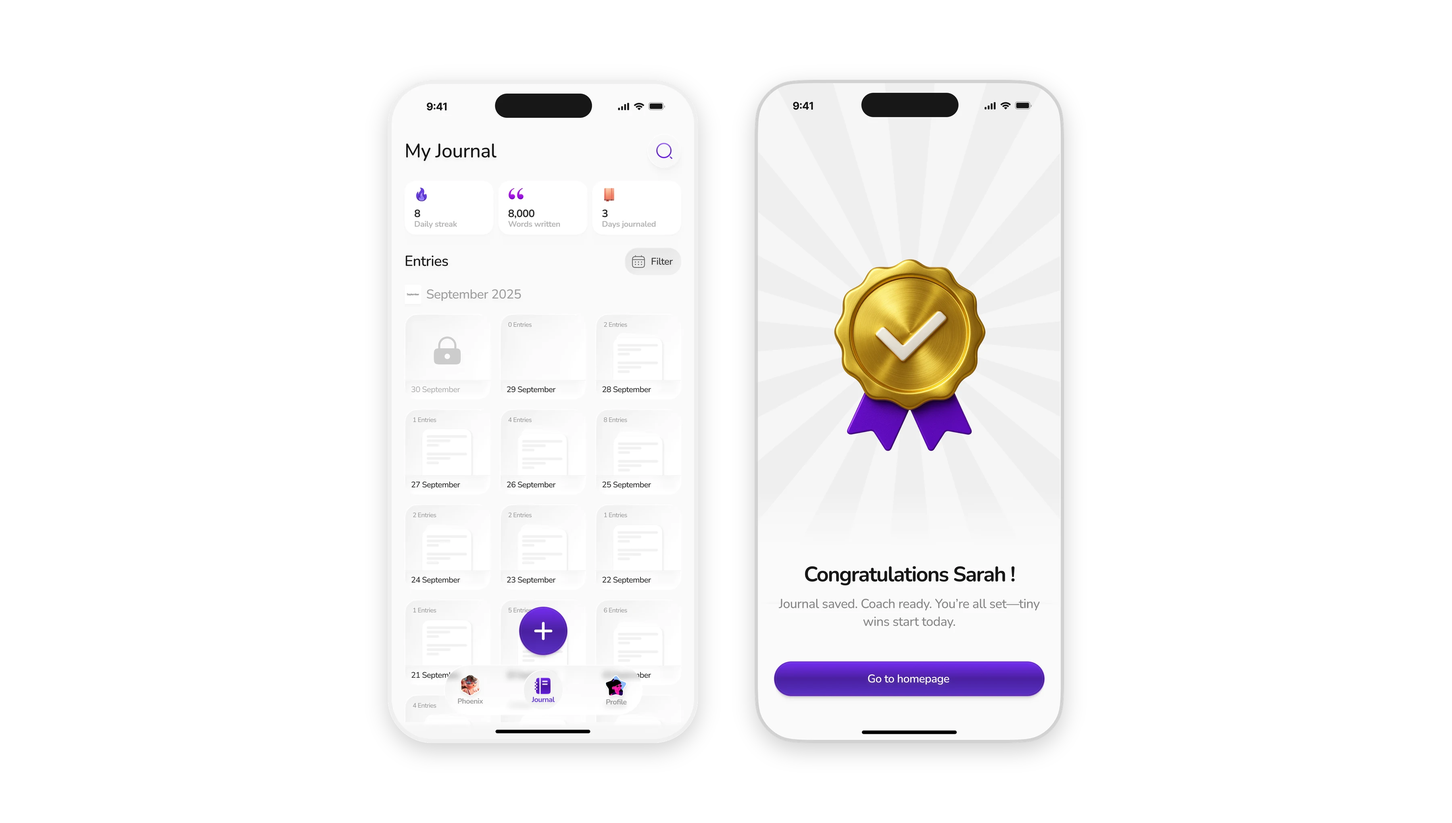
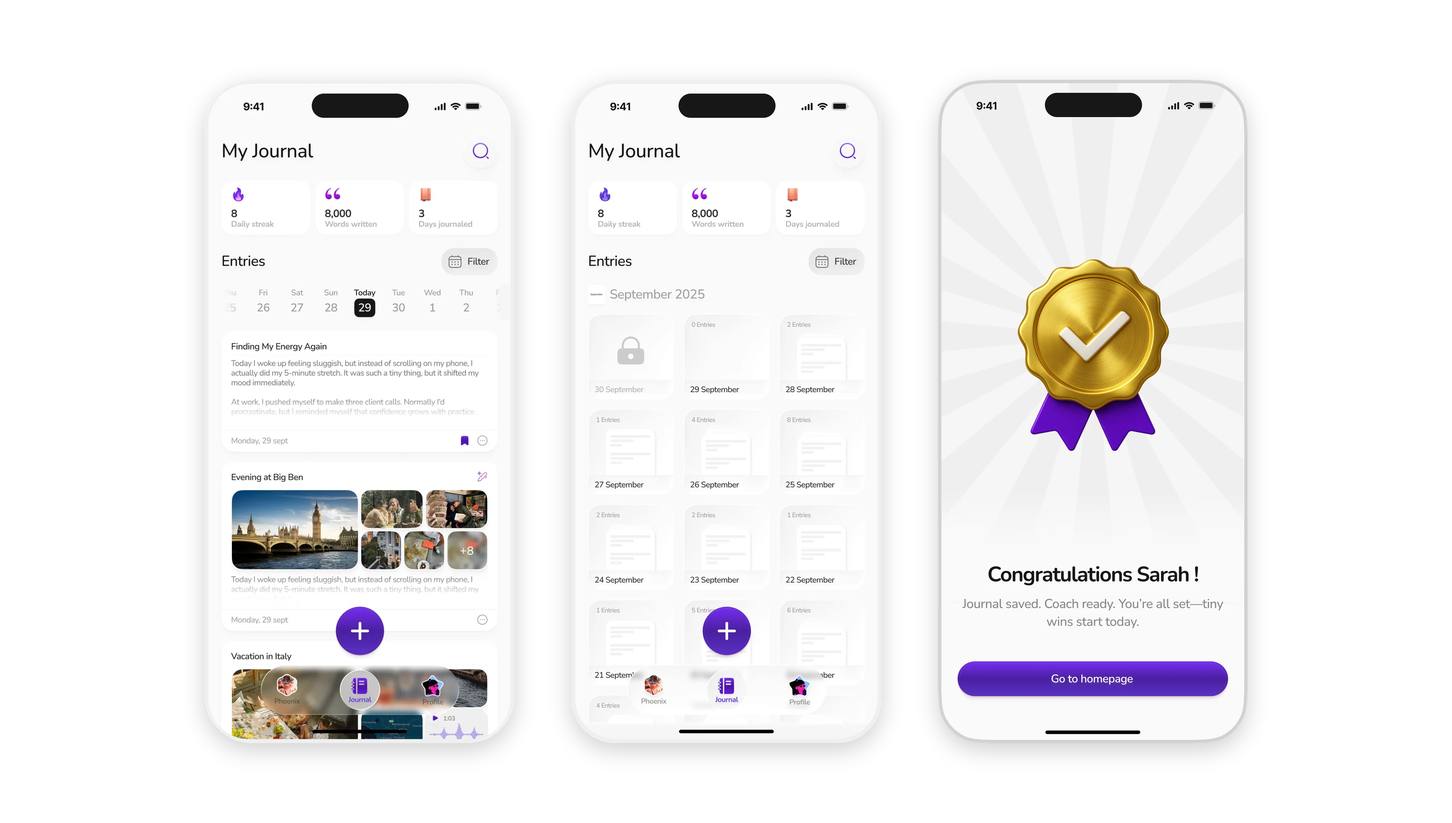
BFF Journal: add main journal page, guided entry, editor photo picker and journal lock screens
Claude-Session: https://claude.ai/code/session_01A2m4LmWmyoZ2m4uxG8GMBA

diff --git a/portfolio/index.html b/portfolio/index.html
@@ -1251,7 +1251,7 @@ const ICON_COPY = `<svg viewBox="0 0 24 24" fill="none" stroke="currentColor" st
 const EMAIL = "dhunibash@gmail.com";
 const BIO = "I’m Hafsoh, a product designer who designs in Figma and ships in code.";
 const LINKS={ site:"https://dhuni-designs.vercel.app" /* switch to https://dhunidesigns.com once the domain is connected */, github:"https://github.com/DhuniDesigns", linkedin:"https://www.linkedin.com/in/hafsoh-bashar/", x:"https://x.com/basharhafsoh", behance:"https://www.behance.net/dhunidesigns" };
-const IMG={ csMmAsk:"img/cs-mm-ask.webp", csMmSpaces:"img/cs-mm-spaces.webp", csMmFiles:"img/cs-mm-files.webp", csBffOnboard:"img/cs-bff-onboard.webp", csBffWrite:"img/cs-bff-write.webp", csBffMonth:"img/cs-bff-month.webp", csBffPhoenix:"img/cs-bff-phoenix.webp", csBffPlans:"img/cs-bff-plans.webp", csLvlOnboard:"img/cs-lvl-onboard.webp", csLvlLearn:"img/cs-lvl-learn.webp", csLvlTutor:"img/cs-lvl-tutor.webp", csLvlCommunity:"img/cs-lvl-community.webp", csLvlPlans:"img/cs-lvl-plans.webp", cs4amQuests:"img/cs-4am-quests.webp", cs4amLeagues:"img/cs-4am-leagues.webp", cs4amInvite:"img/cs-4am-invite.webp", cs4amPlan:"img/cs-4am-plan.webp", cs4amCoach:"img/cs-4am-coach.webp", cs4amWeb:"img/cs-4am-web.webp", csBffJournal:"img/cs-bff-journal.webp", csBffAi:"img/cs-bff-ai.webp", csLvl:"img/cs-lvl-screens.webp", csMm:"img/cs-mm-detail.webp", mmCover:"img/matchmind-cover.webp", pixieKit:"img/pixie-kit.webp", pixieContrast:"img/pixie-contrast.webp", pixieSend:"img/pixie-send.webp", pixieLock:"img/pixie-lock.webp?v=2", sello:"img/sello.webp", pixie:"img/pixie.webp?v=2", koffi:"img/koffi-website.webp", shut2:"img/shuttlers-v2.webp", rea:"img/rea-redesign.webp", nyta:"img/nyta-agency.webp", beach:"img/beach.webp", food:"img/food.webp", ssTravel:"img/travel-app.webp", ssRideL:"img/ride-light.webp", ssRideD:"img/ride-dark.webp", ssFootball:"img/football-ai.webp", ssFoot1:"img/football-ai-1.webp", ssFoot2:"img/football-ai-2.webp", ssNews:"img/blog-app.webp", ssTasks:"img/tasks-dash.webp", ssAotD:"img/aot-dashboard.webp", ssAotP:"img/aot-phones.webp", ssWallet:"img/wallet-modes.webp", ssHelp:"img/help-menu.webp", ssDelete:"img/delete-modal.webp", outabout:"img/out-and-about.webp", meSelfie:"img/me-selfie.webp", meAvatar:"img/me-avatar.webp", meOrange:"img/me-orange.webp", meKiss:"img/me-kiss.webp", meLaugh:"img/me-laugh.webp", meSmile:"img/me-smile.webp", meOutfit:"img/me-outfit.webp", artGirl:"img/art-girl.webp", artPainting:"img/art-painting.webp", hawkins:"img/film-hawkins.webp", flatlay:"img/flatlay.webp", camera:"img/camera.webp", necklace:"img/jw-necklace.webp", cuff:"img/jw-cuff.webp", tiara:"img/jw-tiara.webp", hero4am:"img/4am-hero.webp", heroPhoenix:"img/phoenix-hero.webp", heroLvl:"img/lvlup-hero.webp", trim:"img/trim-hero.webp", trimCover:"img/trim-cover.webp", trimV01:"img/trim-v01.webp", trimPill:"img/trim-pill.webp", trimToast:"img/trim-toast.webp", trimInstalled:"img/trim-installed.webp", trimFlowDia:"img/trim-flow-diagram.webp", trimPopup:"img/trim-popup.webp", selloOnboard:"img/sello-onboarding.webp?v=4", selloFix:"img/sello-fix-steps.webp?v=4", selloHome:"img/sello-home.webp?v=4", selloShop:"img/sello-shop.webp?v=4" };
+const IMG={ csBffGuided:"img/cs-bff-guided.webp", csBffEditor:"img/cs-bff-editor.webp", csBffLock:"img/cs-bff-lock.webp", csMmAsk:"img/cs-mm-ask.webp", csMmSpaces:"img/cs-mm-spaces.webp", csMmFiles:"img/cs-mm-files.webp", csBffOnboard:"img/cs-bff-onboard.webp", csBffWrite:"img/cs-bff-write.webp?v=2", csBffMonth:"img/cs-bff-month.webp?v=2", csBffPhoenix:"img/cs-bff-phoenix.webp", csBffPlans:"img/cs-bff-plans.webp", csLvlOnboard:"img/cs-lvl-onboard.webp", csLvlLearn:"img/cs-lvl-learn.webp", csLvlTutor:"img/cs-lvl-tutor.webp", csLvlCommunity:"img/cs-lvl-community.webp", csLvlPlans:"img/cs-lvl-plans.webp", cs4amQuests:"img/cs-4am-quests.webp", cs4amLeagues:"img/cs-4am-leagues.webp", cs4amInvite:"img/cs-4am-invite.webp", cs4amPlan:"img/cs-4am-plan.webp", cs4amCoach:"img/cs-4am-coach.webp", cs4amWeb:"img/cs-4am-web.webp", csBffJournal:"img/cs-bff-journal.webp", csBffAi:"img/cs-bff-ai.webp", csLvl:"img/cs-lvl-screens.webp", csMm:"img/cs-mm-detail.webp", mmCover:"img/matchmind-cover.webp", pixieKit:"img/pixie-kit.webp", pixieContrast:"img/pixie-contrast.webp", pixieSend:"img/pixie-send.webp", pixieLock:"img/pixie-lock.webp?v=2", sello:"img/sello.webp", pixie:"img/pixie.webp?v=2", koffi:"img/koffi-website.webp", shut2:"img/shuttlers-v2.webp", rea:"img/rea-redesign.webp", nyta:"img/nyta-agency.webp", beach:"img/beach.webp", food:"img/food.webp", ssTravel:"img/travel-app.webp", ssRideL:"img/ride-light.webp", ssRideD:"img/ride-dark.webp", ssFootball:"img/football-ai.webp", ssFoot1:"img/football-ai-1.webp", ssFoot2:"img/football-ai-2.webp", ssNews:"img/blog-app.webp", ssTasks:"img/tasks-dash.webp", ssAotD:"img/aot-dashboard.webp", ssAotP:"img/aot-phones.webp", ssWallet:"img/wallet-modes.webp", ssHelp:"img/help-menu.webp", ssDelete:"img/delete-modal.webp", outabout:"img/out-and-about.webp", meSelfie:"img/me-selfie.webp", meAvatar:"img/me-avatar.webp", meOrange:"img/me-orange.webp", meKiss:"img/me-kiss.webp", meLaugh:"img/me-laugh.webp", meSmile:"img/me-smile.webp", meOutfit:"img/me-outfit.webp", artGirl:"img/art-girl.webp", artPainting:"img/art-painting.webp", hawkins:"img/film-hawkins.webp", flatlay:"img/flatlay.webp", camera:"img/camera.webp", necklace:"img/jw-necklace.webp", cuff:"img/jw-cuff.webp", tiara:"img/jw-tiara.webp", hero4am:"img/4am-hero.webp", heroPhoenix:"img/phoenix-hero.webp", heroLvl:"img/lvlup-hero.webp", trim:"img/trim-hero.webp", trimCover:"img/trim-cover.webp", trimV01:"img/trim-v01.webp", trimPill:"img/trim-pill.webp", trimToast:"img/trim-toast.webp", trimInstalled:"img/trim-installed.webp", trimFlowDia:"img/trim-flow-diagram.webp", trimPopup:"img/trim-popup.webp", selloOnboard:"img/sello-onboarding.webp?v=4", selloFix:"img/sello-fix-steps.webp?v=4", selloHome:"img/sello-home.webp?v=4", selloShop:"img/sello-shop.webp?v=4" };
 
 /* ---- selected works: each has its own detail page ---- */
 const projects = [
@@ -1277,7 +1277,7 @@ const projects = [
              ["Brand","A confident violet with Montserrat and Outfit. Building its palette by hand is what led me to make Pixie."]]},
   {"id": "4am-club", "name": "4AM Club", "meta": "App and Website", "tagline": "A lifestyle and wellness app that helps people build discipline and lasting habits through structured routines, accountability and AI-powered coaching. I was the only designer, and it's published.", "role": "Sole designer: UI/UX, mobile app, web app, website and email templates", "time": "8 weeks", "platform": "Mobile app, web app and website", "tools": "Figma, Framer, Claude", "demo": "https://dhunidesigns.github.io/Engineering-Playground/4am-subscription/", "github": "https://github.com/DhuniDesigns/Engineering-Playground/tree/main/4am-subscription", "shot": "hero4am", "vid": "billing", "heroCap": "The 4AM Club website: the routine builder that kills excuses and builds discipline.", "sections": [["At a glance", ["Role: the only designer, across the mobile app, web app, marketing website and email templates.", "Timeline: 8 weeks, 2025.", "Platforms: iOS and Android app, web app and website.", "Status: published."]], ["The problem", {"p": "4AM Club tackles a struggle almost everyone knows: staying consistent with a daily routine. People start strong and fade within weeks, and the tools meant to help often make it worse.", "list": ["Inconsistency and drop-off: people start strong but lose motivation after a short while.", "Overwhelming habit systems: many wellness apps show too many features at once, which causes overload.", "Lack of personalisation: generic reminders don’t adapt to individual goals, lifestyles or constraints.", "Low accountability: tracking habits alone lacks the social pressure long-term discipline needs.", "Fragmented tools: people juggle separate apps for fitness, budgeting and wellness."]}], ["Who it’s for", "People who want discipline across more than one part of life at once: fitness, nutrition, faith, money and work. That’s why a single day in 4AM Club can hold tasks tagged Spirituality, Fitness, Nutrition, Finances and Content & Branding."], ["The idea in one line", "One app for your whole routine, with a coach that pushes you, a community that holds you to it, and small rewards for showing up every day."], ["How I turned the problems into design rules", {"p": "Each problem became a rule I checked every screen against.", "list": ["Too many features → a focused MVP. The home screen shows today and nothing else.", "Generic reminders → AI coaching that personalises routines, feedback and motivation.", "Tracking alone → community, challenges, progress sharing and group routines.", "Five separate apps → fitness, spirituality, budgeting and wellness in one routine.", "Fading motivation → daily quests, XP, badges and leagues that reward small, repeatable actions."]}], ["Decision 1: open on today, not a dashboard", {"p": "The home screen is today’s routine: each task with its time, its category and a check mark. Finished tasks are crossed out, and a small counter (3 of 8) shows how far along you are. All your other routines fold into a single row at the top.\n\nOn a hard morning you shouldn’t have to decide what to do next, so the app decides the order for you. Onboarding sets the same tone with a short “Reinvention Blueprint” that shows a planned week before you’ve made a single task.", "media": {"img": "cs4amPlan", "cap": "Onboarding, today’s routine, and adding a task: only the title and date are required; everything else is marked optional."}, "sub": [{"h": "Adding a task stays short", "p": "A new task needs a title and a date. Duration, repeat, reminder, links, notes and tags are all there, but each is marked optional, so the quick version takes seconds. Bigger tasks break into subtasks, and the home screen shows how many are done (0 of 4)."}]}], ["Decision 2: a coach with a personality", {"p": "Generic reminders were one reason people quit, so the AI coach isn’t polite. Coach Ashton talks like a trainer: ask what happens if you miss a workout and he tells you to do the 10-minute version, and if you miss that too, reset and come back stronger. You can type or send a voice note.", "media": {"img": "cs4amCoach", "cap": "Coach Ashton’s chat, community groups, and the 4AM shop."}, "sub": [{"h": "Accountability from other people", "p": "Community is where you find public or private groups around what you’re working on, from language learning to building a business. Quitting alone is easy; quitting in front of people is harder."}]}], ["Decision 3: reward the small things, daily", {"p": "Big goals take months to pay off, and that gap is where people drop off. So instead of rewarding only the big wins, 4AM Club rewards the small actions that build them: open the app, create a routine, complete it, update it, post in the community. Each daily quest is worth a few XP.\n\nI designed every quest with three clear states, so people always know where they stand: not done yet (the reward button is faded), ready to claim (bright blue), and claimed (a tick). Bigger moments, like a first purchase, get a full-screen celebration that shows how close you are to the next level.", "media": {"img": "cs4amQuests", "cap": "Daily quests with their three states, the XP celebration with progress to the next level, and the badge collection."}, "sub": [{"h": "Badges for streaks and routines", "p": "Badges are split into two families so they read at a glance: shield-shaped Challenge Badges (Challenge Accepted, Week Strong, Monthly Achiever) and hexagon-shaped Routine & Habit Badges (First Steps, Habit Hero, Early Bird). Each one has its own colour and icon, so a profile full of them tells a story."}, {"h": "Leagues that keep it fair", "p": "A single global leaderboard can feel out of reach when you’re new, so there are two views. The leaderboard shows all-time, monthly and weekly rankings with a podium for the top three and a reminder of your own position. Leagues group people by level (for example Intermediate, levels 11 to 25): the top 10 move up, and a countdown shows when the round ends. You compete with people at your stage, not with someone who’s been here two years.", "media": {"img": "cs4amLeagues", "cap": "The leaderboard with its podium and your own position, and a league with the top-10 promotion rule and countdown."}}]}], ["Growth built into the habit", {"p": "Doing it with friends is the accountability idea taken one step further, so inviting is rewarded in the same XP system. Every member has a referral code and a QR code to share. The invites list shows how each person came in (WhatsApp or SMS) and whether they’ve only signed up or have also completed a routine.", "media": {"img": "cs4amInvite", "cap": "Invites with XP earned and each friend’s status, the QR share sheet, and the profile with a streak on the avatar."}, "sub": [{"h": "A profile that shows the habit", "p": "The profile puts a streak flame on your avatar, your bio and socials up front, and keeps passwords, notifications, health data, orders and subscription in one settings list."}]}], ["Paying for it, built in code", {"p": "I also built the subscription and billing flow as a working prototype. The plan card lifts and expands into a draggable carousel of plans, and the chosen plan lands back in billing with a new transaction.", "media": {"vid": "billing", "cap": "The plan card expands into a swipeable carousel, then settles back as the new plan."}}], ["One brand across app, web and email", {"p": "Besides the mobile app, I designed the web app, the marketing website, a dark mode, an admin dashboard and the email templates, so 4AM Club looks and sounds the same wherever someone meets it.", "media": {"img": "cs4amWeb", "cap": "The website: one line on what it does, two download buttons, and the app right under the headline."}}], ["What shipped", {"p": "4AM Club is published. Over 8 weeks I took it from idea to a complete MVP across mobile, web, website and email, as the only designer.", "list": ["A focused MVP that supports consistent habits without overwhelming people.", "Engagement designed in from day one: personalised routines, social accountability and daily rewards.", "A foundation that can grow into coaching, commerce and deeper AI insights.", "A lifestyle and wellness platform, not just a habit tracker."]}]]},
   {"id": "lvl-up", "name": "LVL UP", "meta": "Mobile app", "tagline": "A swipe-first learning app built for bingeable courses: short vertical lessons, an AI tutor that keeps up with you, and a community learning the same skill. I was the only designer, and it's published.", "role": "Sole designer: UI/UX, mobile app and brand identity", "time": "4 weeks", "platform": "Mobile app", "tools": "Figma, Claude", "github": "https://github.com/DhuniDesigns/lvl-up", "demo": "https://dhunidesigns.github.io/Engineering-Playground/lvlup-onboarding/", "shot": "heroLvl", "vid": "pgLvl", "heroCap": "Choose a focus area, start your first short lesson, save clips to your Library and tap Community for feedback.", "sections": [["At a glance", ["Role: the only designer, including the brand identity.", "Timeline: 4 weeks, 2024.", "Platform: mobile app.", "Status: published."]], ["The problem", {"p": "Online courses ask for hours of attention from people who have minutes. Learners start strong, lose their place halfway through a long video, and never finish.", "list": ["Traditional e-learning platforms feel long, static and hard to finish.", "Learners struggle to stay consistent without immediate feedback or momentum.", "Loading people with too much information at once hurts retention and motivation.", "Personalising learning paths at scale without adding complexity."]}], ["Who it’s for", "Women roughly 24 to 50 who want to learn skills that help them get a job: busy, often learning around work and family, from anywhere in the world."], ["The idea in one line", "Learn the way you already scroll: one short lesson at a time, with a tutor and a community beside you."], ["How I turned the problems into design rules", {"list": ["Long, static courses → short vertical lessons (30 to 120 seconds) that stack like a feed.", "No feedback → an AI tutor that answers inside the lesson and checks understanding in seconds.", "Too much at once → one idea per lesson, and one main action per screen.", "Personalisation without complexity → the tutor picks what comes next, so learners don’t have to plan.", "Learning alone → a community of people on the same path."]}], ["Onboarding that teaches the product in three screens", {"p": "Each onboarding screen explains one promise and shows it working instead of describing it: a stack of lesson cards for bingeable lessons, a summary being written for the tutor, and faces orbiting the app icon for the community. Skip is always there for people who want to get straight in.", "media": {"img": "csLvlOnboard", "cap": "Bingeable lessons, a tutor that adapts to your subject and pace, and learning together."}}], ["Decision 1: lessons short enough to finish", {"p": "Courses are broken into short lessons so finishing one feels like progress, not a chore. Home opens on a featured course with its length up front (4 lessons, 4h 32m), then Continue Watching with a progress bar on each card, then new uploads tagged with lessons, length and XP.\n\nA course page has one main button, Start Course, with Watch trailer and Add to library as quieter options, and shows the XP you’ll earn (+80XP). Each lesson in the list has a one-line summary and its length, so you always know what you’re signing up for.", "media": {"img": "csLvlLearn", "cap": "Home with Continue Watching, a course page with one clear action, and Explore with trending searches and communities."}}], ["Decision 2: a tutor grounded in the lesson", {"p": "The AI tutor gives step-by-step help grounded in the lesson you’re watching, so answers stay on topic. You can type, record a voice note, or attach photos and files, which matters for practical skills where the question is often “what about this?”.\n\nIn the example, a learner nervous about listing calls asks how to answer “can you lower your commission?” and gets a calm, ready-to-use line, then asks for a one-minute structure by voice. The tutor also personalises lesson order, turns highlights into flashcards and runs quick knowledge checks.", "media": {"img": "csLvlTutor", "cap": "Asking with photos attached, asking by voice, and the attach menu: camera, images or files."}}], ["Decision 3: learn with people on the same path", {"p": "Communities can be public or private. A community page shows who’s in it, members and total XP, and one Join button. Inside, people share results, carousels and questions, react with emoji and reply in threads, and everyone’s level sits on their avatar so you can see who’s been at it longest.", "media": {"img": "csLvlCommunity", "cap": "A private community’s details page, and its feed with reactions, shared work and replies."}}], ["Plans, settings and empty states", {"p": "Membership is three yearly plans (Standard, Plus and Premium), each with a monthly equivalent so the price is easy to compare. Plus adds two devices, six profiles and offline downloads. Auto-renew is a clear toggle, with an email reminder before the plan renews.\n\nSettings give learners control over what matters on a phone: whether others can see their level, standard or HD video (standard is recommended because it downloads faster and uses less storage), and background playback. Empty states point somewhere useful: an empty Library says how saving works and offers Explore Courses.", "media": {"img": "csLvlPlans", "cap": "The paywall with three plans and a renewal reminder, Profile & Settings, and the empty Library."}}], ["Prototype: onboarding in code", {"p": "I built the onboarding as a working prototype: lesson cards shuffle, the AI tutor writes a summary word by word, and the community orbits around the app icon.", "media": {"vid": "pgLvl", "cap": "Splash, card shuffle, streaming AI summary and the orbiting community."}}], ["What shipped", {"p": "LVL UP is published. In 4 weeks I designed the brand and the full app as the only designer.", "list": ["Short-form, feed-based learning designed to keep people engaged.", "Less to take in at once, so courses are easier to finish.", "Personalised learning paths that don’t overwhelm.", "A foundation that can grow into more subjects, creators and AI-driven insights."]}]]},
-  {"id": "phoenix", "name": "BFF Journal", "meta": "Mobile app and website", "tagline": "A calm, AI-assisted journaling and habit app that helps women grow intentionally through reflection, consistency and emotional awareness. I was the only designer, and it's published.", "role": "Sole designer: brand identity, mobile app, website and content", "time": "4 weeks", "platform": "Mobile app and website", "tools": "Figma, Framer", "shot": "heroPhoenix", "heroCap": "The BFF Journal website: focus on what matters every day, with gentle discipline.", "sections": [["At a glance", ["Role: the only designer, across the brand, the mobile app, the website and the content.", "Timeline: 4 weeks, 2025.", "Platforms: mobile app and website.", "Status: published."]], ["The problem", {"p": "BFF Journal (Phoenix) supports women in building consistent habits, processing emotions and keeping intentional routines in a safe, private space. Most tools for this get the tone wrong in one of two directions.", "list": ["Many habit and productivity apps feel rigid, overwhelming or performance-driven.", "Traditional journaling apps lack guidance, so consistency is hard to keep.", "People often struggle to reflect on emotions without prompts or structure.", "Balancing emotional safety with actionable growth took careful tone and interaction design."]}], ["Who it’s for", "Women who want to build consistent habits and understand their moods at their own pace, without switching between separate apps for habits, notes and emotional check-ins."], ["The idea in one line", "A gentle but structured companion: progress without pressure, clarity without overwhelm."], ["How I turned the problems into design rules", {"list": ["Rigid, performance-driven apps → a calm interface that celebrates showing up, not scores.", "Blank pages with no guidance → guided journals and gentle AI prompts for when you’re stuck.", "Hard to name feelings → mood logging with characters, emotion words and life areas.", "Emotional safety → private by default: journal privacy, passcodes, and AI suggestions that are off until you turn them on.", "Too many tools → habits, notes and check-ins in one place."]}], ["Onboarding that sets the tone", {"p": "Three screens introduce the app the way a friend would. Capture Your Thoughts shows the kinds of entries you can keep (voice notes, photos, sketches, prompts). Your Personal Companion introduces Phoenix, who responds with empathy, remembers and guides you when you’re not sure what to say. The last screen says it plainly: this is your space, no judgment, no filters, then asks for one thing only: create your first entry.", "media": {"img": "csBffOnboard", "cap": "Capture your thoughts, meet Phoenix, and a promise of privacy before the first entry."}}], ["Decision 1: make feelings easy to name", {"p": "Writing about a feeling is hard when you can’t name it yet, so mood logging starts with something simpler: slide between Unhappy and Happy and a fluffy character changes with you. Then you add the words that fit (content, embarrassed, hopeful) and the parts of life involved (health, hobbies, family, friends, education). The moment is saved with its date and time, so patterns build up on their own.\n\nFor days when a blank page is too much, a guided journal asks one question at a time (what’s one moment that shaped your mood today?) and you can answer by typing or with a voice note.", "media": {"img": "csBffWrite", "cap": "Choosing a mood, the saved moment with emotions and life areas, and a guided journal answered by voice."}}], ["Decision 2: show up, don’t perform", {"p": "The journal celebrates consistency without turning it into a scoreboard. The top shows three gentle numbers (daily streak, words written, days journaled), and entries are grouped by month, with each day showing how many entries it holds. Private days stay locked. Saving an entry ends on a small celebration: journal saved, coach ready, tiny wins start today.", "media": {"img": "csBffMonth", "cap": "The month view with entry counts and a locked day, and the moment after saving an entry."}}], ["Decision 3: AI that offers, never pushes", {"p": "Phoenix is the AI companion. You can talk to it like a friend (“hey, can we chat? my brain’s noisy today”) and it asks what you need: vent a bit, or find one tiny next step. You can add photos from your day to the conversation.\n\nJournaling suggestions are off until you turn them on. The sheet that asks explains what they do and what they use: gentle prompts from your day at a frequency you set, from sources you choose (photos, location, calendar or none), encrypted and on-device where possible, with quiet hours and an off switch. On an app about feelings, I wanted people to decide what the AI sees.", "media": {"img": "csBffPhoenix", "cap": "Talking to Phoenix with photos from the day, and the opt-in sheet for journaling suggestions."}}], ["Paying for it, honestly", {"p": "The paywall leads with what you get in plain words (a companion that listens and remembers, guided journals, emotion tracking) before any price. Four plans show a cost per day so they’re easy to compare, annual is marked as recommended, and a 7-day free trial is always one tap away. Phoenix Pro can be a subscription or a one-time purchase, and it lives on the profile next to Journal Privacy and Passwords & Security.", "media": {"img": "csBffPlans", "cap": "The paywall with per-day pricing and a free trial, and the profile with Phoenix Pro and privacy settings."}}], ["A brand that feels soft", "Purple, rounded type and fluffy mood characters (a happy pink one, a sad purple one, a calm green one) set the tone before anyone writes a word. I also designed the website and wrote the content."], ["What shipped", {"p": "BFF Journal is published. In 4 weeks I designed the brand, the app and the website as the only designer.", "list": ["One app in place of separate habit, notes and journaling tools.", "Guided reflection and AI support designed to make journaling clearer and easier to keep up.", "A calm, supportive tone that encourages sustainable growth.", "A foundation for richer insights, streaks and personalisation."]}]]},
+  {"id": "phoenix", "name": "BFF Journal", "meta": "Mobile app and website", "tagline": "A calm, AI-assisted journaling and habit app that helps women grow intentionally through reflection, consistency and emotional awareness. I was the only designer, and it's published.", "role": "Sole designer: brand identity, mobile app, website and content", "time": "4 weeks", "platform": "Mobile app and website", "tools": "Figma, Framer", "shot": "heroPhoenix", "heroCap": "The BFF Journal website: focus on what matters every day, with gentle discipline.", "sections": [["At a glance", ["Role: the only designer, across the brand, the mobile app, the website and the content.", "Timeline: 4 weeks, 2025.", "Platforms: mobile app and website.", "Status: published."]], ["The problem", {"p": "BFF Journal (Phoenix) supports women in building consistent habits, processing emotions and keeping intentional routines in a safe, private space. Most tools for this get the tone wrong in one of two directions.", "list": ["Many habit and productivity apps feel rigid, overwhelming or performance-driven.", "Traditional journaling apps lack guidance, so consistency is hard to keep.", "People often struggle to reflect on emotions without prompts or structure.", "Balancing emotional safety with actionable growth took careful tone and interaction design."]}], ["Who it’s for", "Women who want to build consistent habits and understand their moods at their own pace, without switching between separate apps for habits, notes and emotional check-ins."], ["The idea in one line", "A gentle but structured companion: progress without pressure, clarity without overwhelm."], ["How I turned the problems into design rules", {"list": ["Rigid, performance-driven apps → a calm interface that celebrates showing up, not scores.", "Blank pages with no guidance → guided journals and gentle AI prompts for when you’re stuck.", "Hard to name feelings → mood logging with characters, emotion words and life areas.", "Emotional safety → private by default: journal privacy, passcodes, and AI suggestions that are off until you turn them on.", "Too many tools → habits, notes and check-ins in one place."]}], ["Onboarding that sets the tone", {"p": "Three screens introduce the app the way a friend would. Capture Your Thoughts shows the kinds of entries you can keep (voice notes, photos, sketches, prompts). Your Personal Companion introduces Phoenix, who responds with empathy, remembers and guides you when you’re not sure what to say. The last screen says it plainly: this is your space, no judgment, no filters, then asks for one thing only: create your first entry.", "media": {"img": "csBffOnboard", "cap": "Capture your thoughts, meet Phoenix, and a promise of privacy before the first entry."}}], ["Decision 1: make feelings easy to name", {"p": "Writing about a feeling is hard when you can’t name it yet, so mood logging starts with something simpler: slide between Unhappy and Happy and a fluffy character changes with you. Then you add the words that fit (content, embarrassed, hopeful) and the parts of life involved (health, hobbies, family, friends, education). The moment is saved with its date and time, so patterns build up on their own.", "media": {"img": "csBffWrite", "cap": "Choosing a mood, and the saved moment with its emotions and life areas."}, "sub": [{"h": "Guided journals for blank-page days", "p": "When a blank page is too much, a guided journal works like a gentle conversation: Phoenix asks one question at a time (what’s one moment that shaped your mood today?) and you answer by typing or with a voice note. Your answers are saved as the entry, a small confirmation says it’s saved with an Edit option next to it, and you can rename the entry at any time.", "media": {"img": "csBffGuided", "cap": "Answering a guided question by voice, and the saved entry with its voice note and an Edit option."}}]}], ["Decision 2: show up, don’t perform", {"p": "The journal celebrates consistency without turning it into a scoreboard. My Journal opens with three gentle numbers (daily streak, words written, days journaled) and a week strip to move between days. Entries show as cards with their title, a preview of the text and any photos or voice notes, and one big plus button starts a new entry.\n\nSwitch to the month view and each day shows how many entries it holds, with private days locked. Saving an entry ends on a small celebration: journal saved, coach ready, tiny wins start today.", "media": {"img": "csBffMonth", "cap": "My Journal with streaks and entry cards, the month view with a locked day, and the moment after saving."}, "sub": [{"h": "Writing stays out of the way", "p": "A new entry is a blank page with a title. Everything else (text styles, AI help, photos, camera, location, voice notes and your mood) sits in one bar above the keyboard. Tap photos and your library opens right there, so adding a picture from your day doesn’t take you away from what you’re writing.", "media": {"img": "csBffEditor", "cap": "The writing screen with its tool bar and the photo picker open."}}]}], ["Decision 3: AI that offers, never pushes", {"p": "Phoenix is the AI companion. You can talk to it like a friend (“hey, can we chat? my brain’s noisy today”) and it asks what you need: vent a bit, or find one tiny next step. You can add photos from your day to the conversation.\n\nJournaling suggestions are off until you turn them on. The sheet that asks explains what they do and what they use: gentle prompts from your day at a frequency you set, from sources you choose (photos, location, calendar or none), encrypted and on-device where possible, with quiet hours and an off switch. On an app about feelings, I wanted people to decide what the AI sees.", "media": {"img": "csBffPhoenix", "cap": "Talking to Phoenix with photos from the day, and the opt-in sheet for journaling suggestions."}, "sub": [{"h": "A journal only you can open", "p": "Privacy goes beyond the AI. You can protect the whole journal with Face ID, a password or both, and the sheet tells you where to change it later (Settings, then Privacy & Lock), so turning it on never feels permanent.", "media": {"img": "csBffLock", "cap": "Protect your journal with Face ID or a password."}}]}], ["Paying for it, honestly", {"p": "The paywall leads with what you get in plain words (a companion that listens and remembers, guided journals, emotion tracking) before any price. Four plans show a cost per day so they’re easy to compare, annual is marked as recommended, and a 7-day free trial is always one tap away. Phoenix Pro can be a subscription or a one-time purchase, and it lives on the profile next to Journal Privacy and Passwords & Security.", "media": {"img": "csBffPlans", "cap": "The paywall with per-day pricing and a free trial, and the profile with Phoenix Pro and privacy settings."}}], ["A brand that feels soft", "Purple, rounded type and fluffy mood characters (a happy pink one, a sad purple one, a calm green one) set the tone before anyone writes a word. I also designed the website and wrote the content."], ["What shipped", {"p": "BFF Journal is published. In 4 weeks I designed the brand, the app and the website as the only designer.", "list": ["One app in place of separate habit, notes and journaling tools.", "Guided reflection and AI support designed to make journaling clearer and easier to keep up.", "A calm, supportive tone that encourages sustainable growth.", "A foundation for richer insights, streaks and personalisation."]}]]},
   {"id": "matchmind", "name": "MatchMind", "meta": "Mobile app", "tagline": "An AI football assistant that helps fans understand the game more deeply through clear insights, stats and tactical analysis. I was the only designer, and it's published.", "role": "Sole designer: product and UI design", "time": "", "platform": "Mobile app", "tools": "Figma", "shot": "mmCover", "heroCap": "MatchMind: a training question, the start screen, and a stats question.", "sections": [["At a glance", ["Role: the only designer.", "Platform: mobile app.", "Status: published."]], ["The problem", {"p": "MatchMind is for fans who want to go beyond surface-level commentary and actually understand the game. The answers exist, but they’re spread across stats sites, videos and group chats, and most of them assume you already speak the language of analysts.", "list": ["Making complex football data easy to understand.", "Serving both casual fans and more analytical users.", "Presenting AI insights without overwhelming people.", "Designing a conversational experience that feels intuitive and trustworthy."]}], ["Who it’s for", "Fans anywhere between casual and analytical: someone who wants to know who the best dribbler is this season, and someone who wants to know why their team struggles against a low block. It also helps players working on their own game, with drills and training plans."], ["The idea in one line", "Ask about football in your own words and get an answer shaped to the question: clear for a casual fan, deep enough for an analyst."], ["How I turned the problems into design rules", {"list": ["Complex data → answers lead with a simple visual (a ranking, a set of drills), with the explanation underneath.", "Casual and analytical fans → plain words first, with the depth there for people who want it.", "Overwhelming AI output → short paragraphs, with the key phrases in bold so you can skim.", "Trust → the question stays at the top of every answer, and answers can be copied, regenerated or shared.", "A blank chat box → suggested topics and an example question to start from."]}], ["Decision 1: answers shaped like the question", {"p": "A wall of text works for some questions and fails for others, so each answer takes the shape the question needs.\n\nAsk who has the most dribbles in the Premier League and you get a ranked list first (player, club badge and the number, large enough to read at a glance), then a short explanation that adds the nuance a number can’t: one player attempts the most dribbles, another is more efficient, another stands out in the final third. Ask how to get better with your weaker foot and you get drill cards with times (wall passes, 10 minutes; left-foot finishing, 15; a 2v2 weak-foot challenge, 20), then a short plan explaining the order. The answer ends by offering to tailor the plan to your age, height and position.", "media": {"img": "csMmAsk", "cap": "The start screen with suggested topics, a stats question answered with a ranking, and a training question answered with drills."}}], ["Decision 2: start from curiosity, not a blank box", {"p": "An empty chat box makes people wonder what they’re allowed to ask. The start screen shows a few football stickers, one line (ask smarter football questions) and topic chips you can tap: most dribbles, player comparison, team stats, what-if questions. The input shows an example question instead of a generic placeholder, and you can type or speak."}], ["Decision 3: Spaces for deeper work", {"p": "Fans who go deep come back to the same topics, so conversations can be grouped into Spaces such as Match Prep, Tactical Breakdown or Player Analysis. Creating one takes a name and nothing else. You can add files (a PDF or an image) to a Space, and each Space keeps its own list of recent conversations, so the context stays together.\n\nSpaces and recent conversations live in a sheet that pulls up from the input, so they’re one swipe away without taking over the chat.", "media": {"img": "csMmSpaces", "cap": "Recent Spaces and conversations in the pull-up sheet, naming a new Space, and an empty Space ready for files."}, "sub": [{"h": "Files and history in one place", "p": "A Space shows its files at the top and its conversations below, so returning to a topic means picking up where you left off.", "media": {"img": "csMmFiles", "cap": "Managing a Space’s files, and a Space with its files and recent conversations."}}]}], ["What shipped", {"p": "MatchMind is published, and I was the only designer on it.", "list": ["Question-driven learning designed to keep fans curious and engaged.", "Answers that make tactics and performance stats easier to understand.", "An AI framework ready for live match data and advanced analytics.", "A foundation for future features such as training guidance and match predictions."]}]]},
   {id:"out-and-about", name:"Out & About", meta:"Website", tagline:"A city guide to Abuja’s nights out: clubs, bars, comedy and cheap-drink spots in one place.",
    role:"Product design and brand direction", time:"5 weeks", platform:"Website and admin", tools:"Figma, Sanity",
